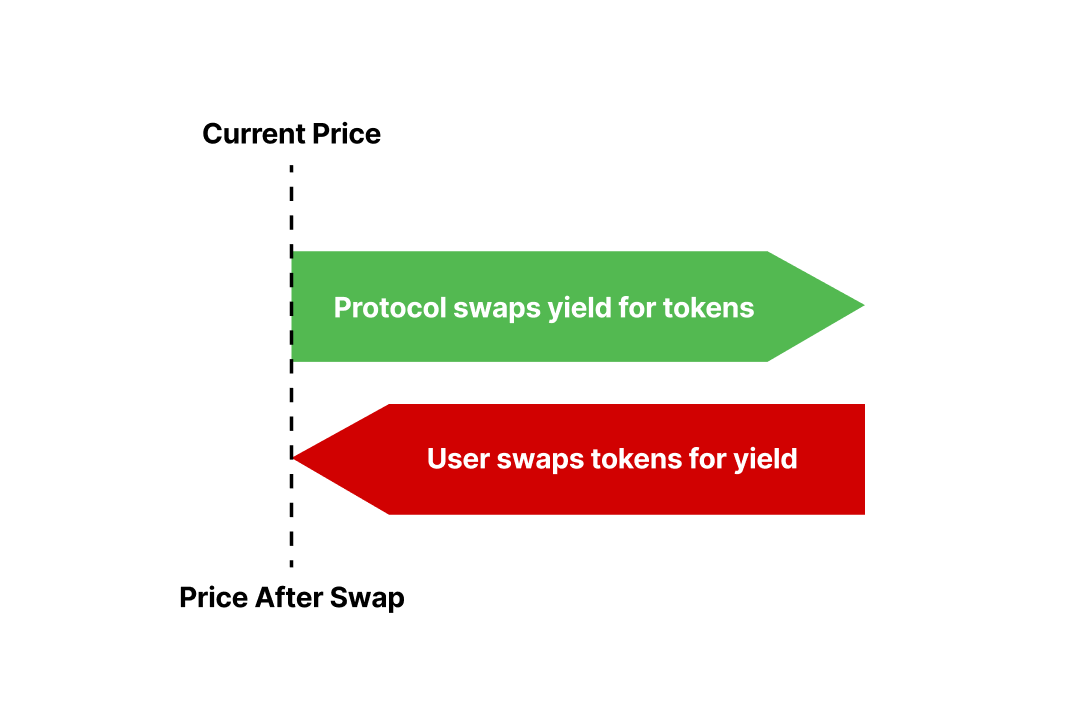
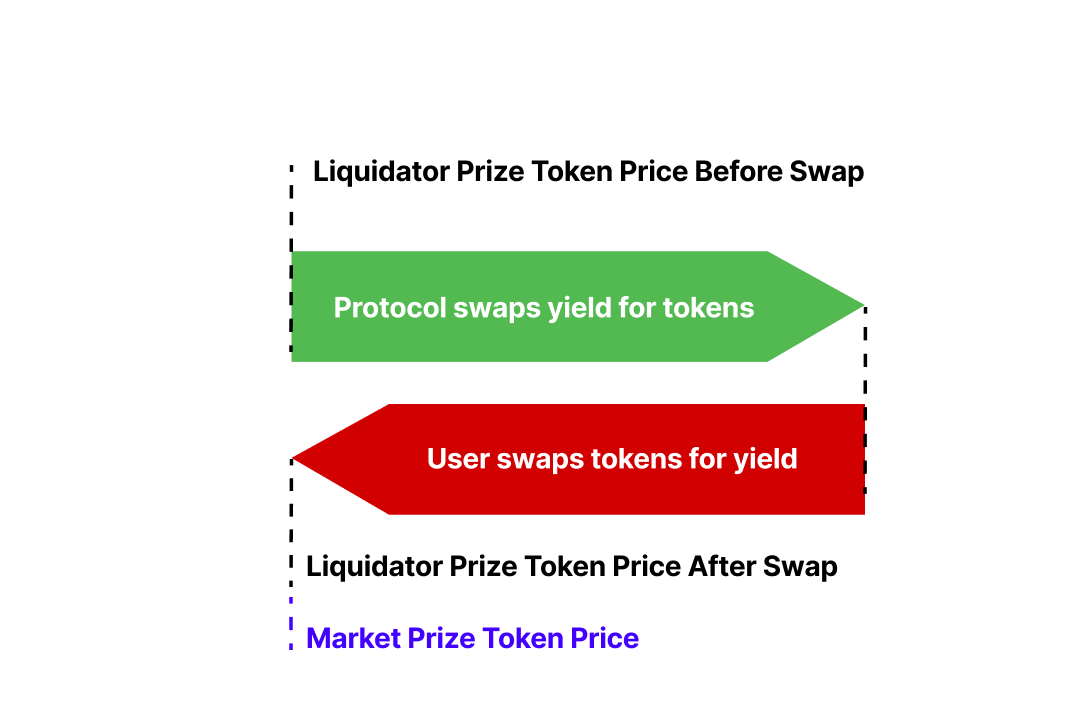
Updated images

diff --git a/src/index.js b/src/index.js
@@ -160,12 +160,8 @@ async function run() {
 
     let accrualRates = {
         0: 10,
-        // 50: 20,
         100: 100,
-        // 150: 80,
-        // 200: 160,
         400: 1000,
-        // 300: 640,
         800: 10000
     }
 

diff --git a/README.md b/README.md
@@ -135,7 +135,7 @@ To do this, we can add an additional virtual swap to every user swap. This virtu
 
 <img style="display: block; max-width: 500px; margin: 0 auto" src='./assets/ValueOfTokenDecreasesVirtualSwap.png' />
 
-As a consequence, however, it means less of the yield can be arbitraged:
+You can see how after multiple swaps the liquidator's prize token price begins to stabilize at the market price:
 
 <img style="display: block; max-width: 500px; margin: 0 auto" src='./assets/VirtualSwapLostPortion.png' />
 
